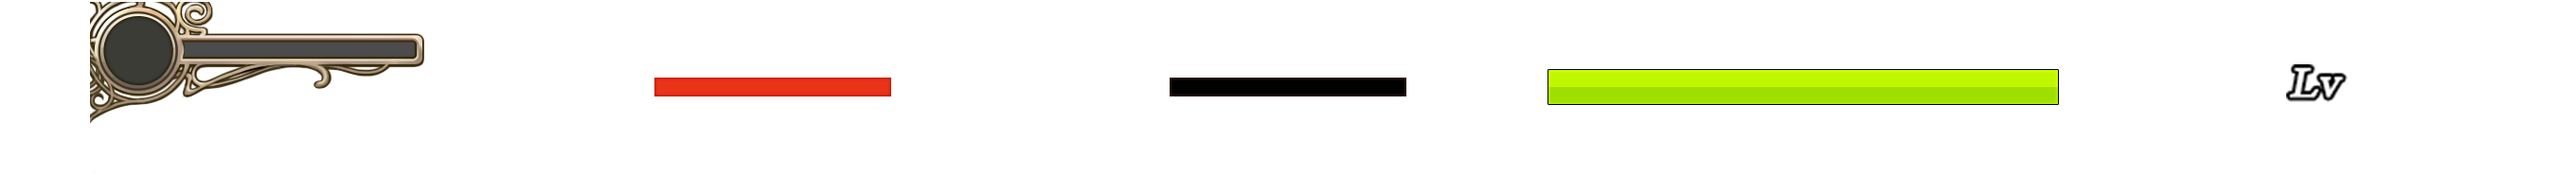
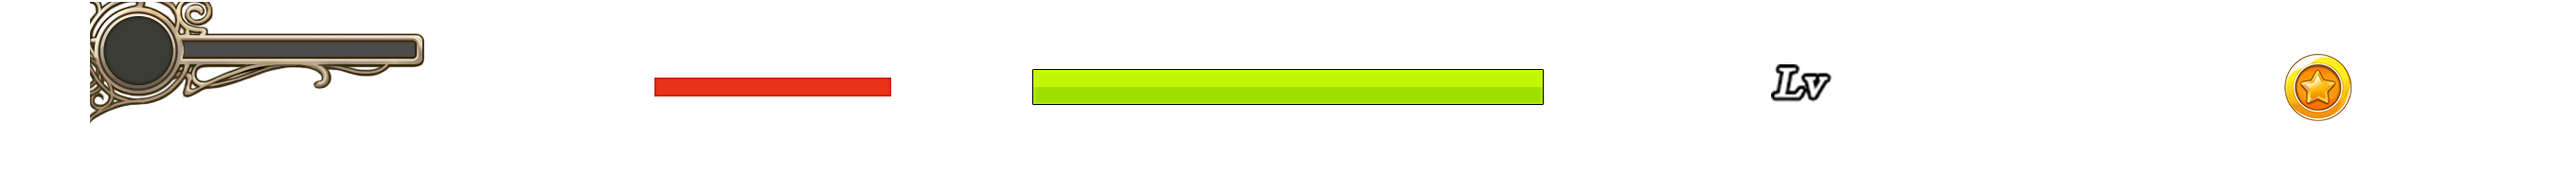
레벨과 골드 출력

Changed region(s): [[0.375, 0.3514, 0.8125, 0.6216], [0.875, 0.2973, 0.9375, 0.7027]]

diff --git a/Class_Character_main.py b/Class_Character_main.py
@@ -9,6 +9,7 @@ class Character:
         self.image = load_image('character_motion_sheets.png')
         self.attack_image = load_image('attack_effect_sheets.png')  # 564 x 188
         self.UI_image = load_image('character_UI_sheet.png')
+        self.font = load_font('C:\Windows\Fonts\malgun.ttf', 20)
         # 애니메이션 관련 변수
         self.frame = 0 # 프레임 진행 현황
         self.start_frame = 3 # 프레임 시작 인덱스
@@ -271,7 +272,11 @@ class Character:
         sy = 550
         self.UI_image.clip_draw(0, 0, w, h, sx, sy, 400, 100) # HP 바 테두리
         self.UI_image.clip_draw(w * 1, 0, w, h, sx + 32, sy + 21, 400, 100) # HP 바
-        self.UI_image.clip_draw(w * 3, 0, w, h, sx + 32, sy + 8, 190, 50) # 경험치 바
+        self.UI_image.clip_draw(w * 2, 0, w, h, sx + 32, sy + 8, 190, 50) # 경험치 바
+        self.UI_image.clip_draw(w * 3, 0, w, h, sx - 100, sy + 20, 200, 100)  # 레벨
+        self.font.draw(sx - 85, sy + 22, f'{self.LV}', (255, 255, 255))
+        self.UI_image.clip_draw(w * 4, 0, w, h, sx - 100, sy - 50, 250, 100)  # 골드 보유량
+        self.font.draw(sx - 75, sy - 50, f'Gold: {self.Gold}', (255, 255, 0))
     # 캐릭터 그리기
     def draw_character(self):
         self.setting_camera()
